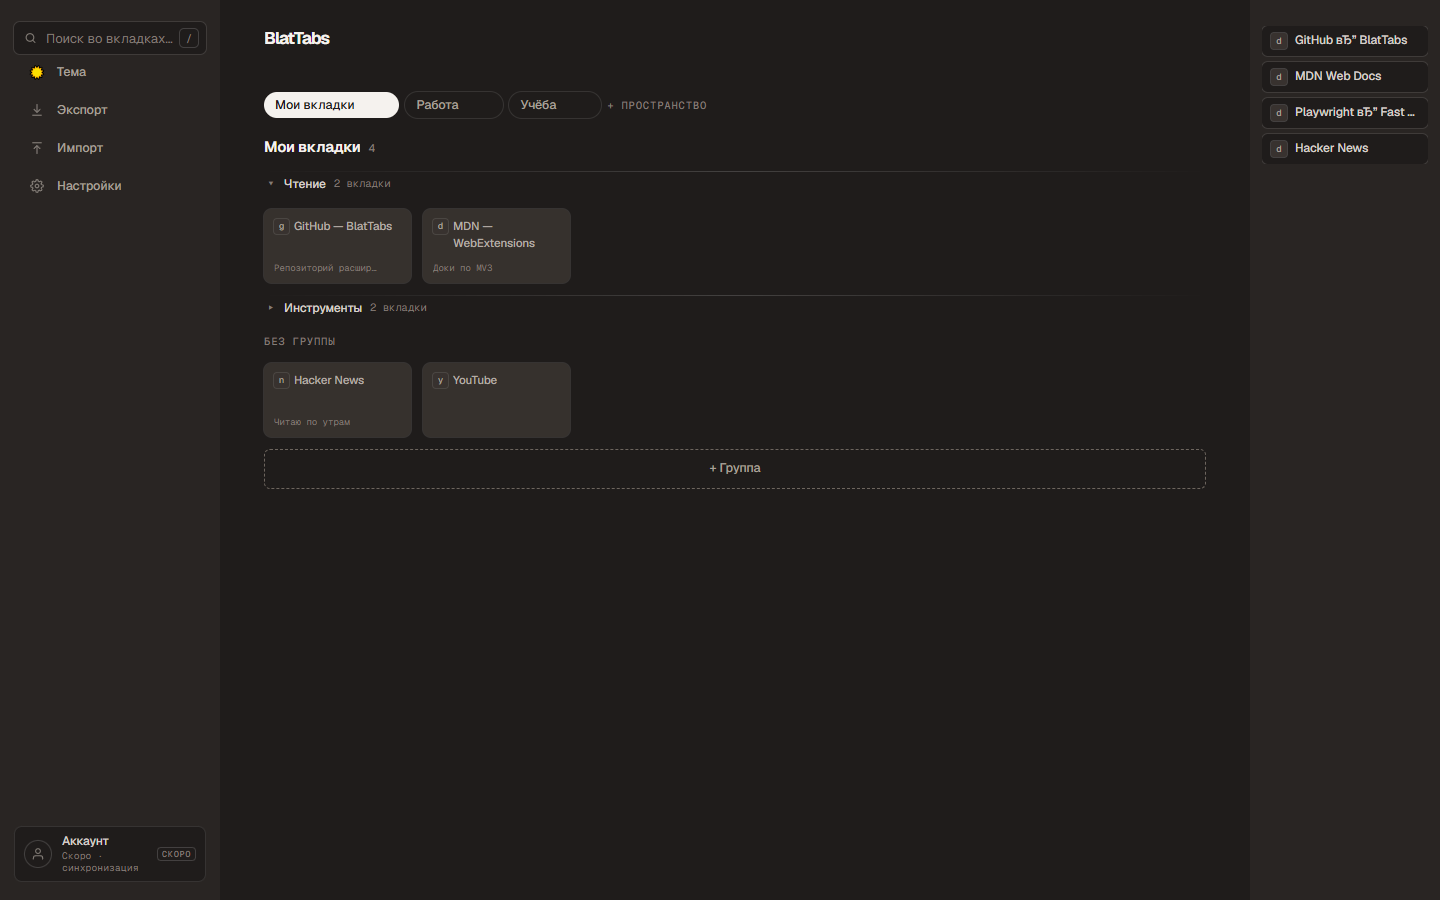
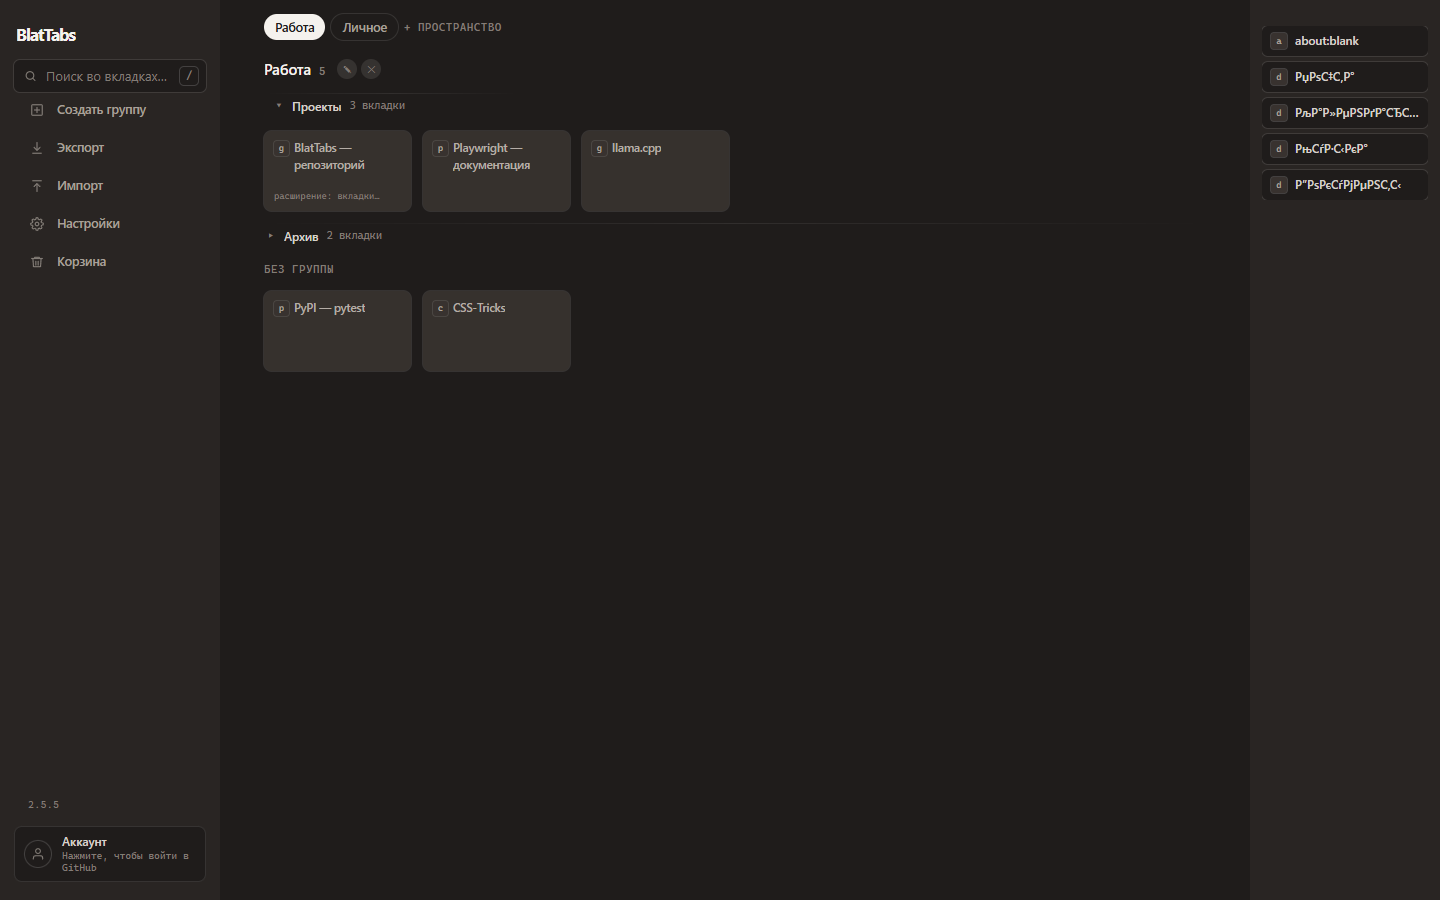
docs: README обновлён (таблица хоткеев — 10 настраиваемых действий с дефолтами, hero-скриншот перегенерирован под v2.5.5), ROADMAP + QWEN — ad-hoc запись

diff --git a/ROADMAP.md b/ROADMAP.md
@@ -292,3 +292,4 @@ toggle'ит; reorder шапка→шапка + клик по целевой ша
 - [x] **GitHub-verify: реальная причина ошибки + авто-retry + «Проверить ещё раз»** — verify-github теперь несёт error (network / api 401 / api 403): verifyGitHubToken() (background.js) вместо null возвращает {error: 'network'} (fetch-провал после 3 попыток) / {error: 'api <status>'} (401/403/429) — ответ verify-github: {success: false, token_present, error} (нет токена — {success: false}); view.js: 401/403 (мёртвый токен не лечится повтором) — рейка и модалка «Токен недействителен — войдите заново» (i18n account_token_invalid, ru/en) БЕЗ retry; любой другой провал (сеть) — «Подключено · проверяем аккаунт…» + авто-retry каждые 30 c таймером СТРАНИЦЫ (scheduleVerifyRetry — SW умирает, страница живёт; стоп при успехе и при кэшированном логине), retry повторяет refreshAccount() + renderGitHubModal(); в модалке #github-modal кнопка «Проверить ещё раз» (#github-retry-btn, i18n github_retry, ru/en) — видна во всех провалившихся состояниях (network/401/403/no-response), скрыта при успехе; клик — немедленный повтор verify. Тесты: новый TestVerifyAuthErrorAndRetry (12: рейка network → «проверяем» / network → retry восстанавливает (2-й verify — успех, логин в кэш) / 401 → «недействителен» без retry (счётчик verify = 1 за 700 ms при хуке 250 ms) / успех — retry снят (счётчик 1) / без токена verify 0 раз, состояние подключения / модалка network → статус «проверяем» + кнопка retry видима / модалка 401 → «недействителен» + retry видима / модалка успех → «GitHub: <login> · …» + retry скрыта / клик по retry — счётчик verify растёт / i18n en 401 → «Token invalid — sign in again» / background: fetch 401 → {success:false, token_present:true, error:'api 401'} / background: fetch-исключение → {success:false, token_present:true, error:'network'}). Итого 911 unit-тестов
 - [x] **Средний клик по карточке — фоновая вкладка** — средний клик (колесо мыши) по сохранённой вкладке открывает сайт новой ФОНОВОЙ вкладкой (chrome.tabs.create, active:false) — фокус остаётся на странице BlatTabs (в окне плагина). view.js (appendCard): mousedown (button 1) — preventDefault (гасит autoscroll браузера), auxclick (button 1) — openSavedUrlsInBackground([tab.url]) (тот же фоновый путь, что дроп карточки на правую рейку); hover-кнопки (чекбокс/✕/✎) не открывают (pdInteractiveTarget). Левый клик (open-one, active:true), dblclick-rename и drag не тронуты; i18n без изменений (новых строк нет). Тесты: новый TestMiddleClickBackgroundOpen (6: фоновое открытие {url, active:false} / ровно одно открытие + ЛКМ-путь open-one не шёл / middle-mousedown — defaultPrevented (autoscroll-подавление) / средний клик по имени — фоновое открытие без rename / hover-кнопки (чекбокс/✕/✎) — без открытия / регрессия: левый клик — open-one + active:true). Итого 917 unit-тестов
 - [x] **«Бесконечный "Проверяем аккаунт"» → честная ошибка** — устойчивый провал verify-github (сеть, токен есть, кэша логина нет) раньше зацикливал рейку/модалку в «Подключено · проверяем аккаунт…» (30-с retry — навсегда, видимой ошибки нет): теперь стабильно «GitHub недоступен — проверьте сеть» (account_verify_error, ключи ru/en уже были) в рейке (подпись «Аккаунт») И модалке; тихий 30-с авто-retry (таймер view.js, стоп при успехе, self-heal при восстановлении сети) теперь вызывает renderGitHubModal(false) — открытая модалка делает повторный verify БЕЗ вспышки «проверяем» (вспышка только для пользовательских проверок: openGitHubModal, клик #github-retry-btn, setTimeout(renderGitHubModal, 3000) после sync-now/clear-cloud, onChanged github-token); 401/403 (account_token_invalid, без retry) и success-ветки — без изменений; background.js не трогали. Тесты: ретаргет 4 steady-state ассертов «Подключено · проверяем аккаунт…» → account_verify_error (TestDeviceFlowPolling.test_verify_fail_no_cache_shows_error — + подпись «Аккаунт»; TestVerifyAuthErrorAndRetry: test_rail_network_error_shows_error, test_modal_network_error_status_and_retry_btn, test_modal_retry_btn_click_reverifies; in-flight «проверяем» до ответа verify в TestGithubModalSync.test_token_status_immediate — сохранён), новый TestVerifyErrorSteadyState (8, standalone без наследования: pytest повторно исполняет наследованные тесты — счёт бы вырос на 12: рейка error-стабейт + запланированный retry / 401-регрессия (retry не идёт) / модалка error-статус + retry-btn / тихий retry без вспышки (delayed-verify-мок, 400 ms окно in-flight) / восстановление: логин + кэш blattam-github-login + pending-retry снят / клик #github-retry-btn: вспышка «проверяем» + счётчик verify растёт / en-локаль). Итого 925 unit-тестов
+- [x] **README обновлён: хоткеи + hero-скриншот (ad-hoc, docs)** — таблица «Горячие клавиши» доведена до текущего состояния (было 6 строк — до хоткей-панели v2.5.0): фиксированные `Ctrl+Shift+S`/`Ctrl+T`/`Esc` (не привязывается) + 10 настраиваемых действий (Настройки → «Горячие клавиши», метки 1:1 с i18n, дефолты = HOTKEY_DEFAULTS: ↓/→, ↑/←, Enter, Delete/Backspace, /, Ctrl+A; «Новое пространство»/«Новая группа»/«Переключить тему»/«Открыть настройки» — не назначены). Hero `docs/screenshot.png` перегенерирован (Playwright + загрузка unpacked-расширения: 2 пространства, раскрытая группа «Проекты» + свёрнутая «Архив» + loose-вкладки, правая рейка из живых вкладок браузера, тёмная тема, 1440×900; старая картинка была от v2.0.0 — alt и комментарий в README обновлены). Версия 2.5.5 и 983 автотеста в README подтверждены фактом (manifest.json + `pytest --collect-only`). Код не тронут — 983 без изменений

diff --git a/QWEN.md b/QWEN.md
@@ -173,3 +173,4 @@ store/                 — материалы магазина: DESCRIPTION.md +
 - **GitHub-verify: steady-state ошибка + тихий retry** — устойчивый провал verify (сеть, токен есть, кэша логина нет) — рейка и модалка показывают «GitHub недоступен — проверьте сеть» (account_verify_error; рейка — подпись «Аккаунт») вместо вечного «Подключено · проверяем аккаунт…»; 30-с авто-retry (таймер view.js, стоп при успехе) теперь ТИХИЙ — renderGitHubModal(false): открытая модалка повторно делает verify БЕЗ вспышки «проверяем» (вспышка только для пользовательских проверок: открытие модалки, клик «Проверить ещё раз», перерисовка через 3 с после sync-now/clear-cloud, onChanged github-token); при восстановлении сети фоновый retry успешен → кэш логина пишется → рейка «GitHub: <login>»; 401/403 (без retry) и success — без изменений; новых i18n-ключей нет (account_verify_error был)
 - **С4.18: Синк-пейлоад — явный whitelist + валидация типов** — getSyncPayload больше не списывает всё chrome.storage.sync в payload.settings (get(null)): явные поля tabs (local), spaces, groups, lastSpaceId (sync), updatedAt (local, метка С2.9); lastSpaceId — новое явное поле (было — только через settings-дампы); applySyncPayload пишет только валидные по типам поля (Array.isArray — tabs/spaces/groups, string — lastSpaceId, number — updatedAt) — чужие ключи из облака в sync не зеркалируются; gist в старом формате (settings-дампы) по-прежнему применяется — из дампа берутся те же три whitelisted sync-ключа; FAQ faq5_a (ru+en + статический filler view.html) — честный скоуп: синк — вкладки/пространства/группы через GitHub-аккаунт, тема/язык/настройки — per-device (темы/пресеты/хоткеи НЕ синкаются — решение BlattamBot)
 - **С4.19: Лицензия + политика конфиденциальности** — LICENSE (MIT, © 2026 Blattam) + PRIVACY.md (RU) в корне репо (пишет BlattamBot, ревьюит BlattamRoach): документация скоупа данных. Локально (chrome.storage.local, никуда не отправляется): blattam-tabs, blattam-trash, blattam-browser-tabs (зеркало, без инкогнито), blattam-theme/lang/quick-search, фоны (3 ключа), blattam-tab-color/custom-theme/presets/active-preset, blattam-hotkeys, blattam-data-updated-at, github-token + blattam-github-login + blattam-auth-scope + blattam-gist-id (токен scope gist — только в запросах к api.github.com, в синк-пейлоад не входит). chrome.storage.sync: blattam-spaces/groups/last-space — синхронизирует сам браузер через аккаунт Google. GitHub — только после явного «Войти в GitHub»: приватный Gist (sync.json, описание «BlatTabs Sync Data», создаётся при первом синке) с whitelist-пейлоадом С4.18 (tabs/spaces/groups/lastSpaceId/updatedAt); push — после изменений (debounce на chrome.alarms, в unpacked ~1 мин) и по «Синхронизировать», pull — по «Синхронизировать», «Очистить облачные данные» — Gist пустой, «Отключить» — токен удаляется (Gist остаётся в аккаунте); сетевые запросы — только api.github.com (Gist/verify) + github.com (OAuth/Device-страницы входа) + страница Releases по кнопке; аналитики, телеметрии и внешних серверов нет. Код не тронут — 983 автотеста без изменений
+- **README: хоткеи + hero-скриншот** — таблица «Горячие клавиши» в README: фиксированные `Ctrl+Shift+S` (сохранить), `Ctrl+T` (открыть BlatTabs), `Esc` (сброс, не привязывается) + 10 настраиваемых действий (Настройки → «Горячие клавиши», дефолты HOTKEY_DEFAULTS; «Новое пространство»/«Новая группа»/«Переключить тему»/«Открыть настройки» — не назначены). `docs/screenshot.png` перегенерирован под v2.5.5 (Playwright + unpacked: 2 пространства, раскрытая/свёрнутая группы, loose-вкладки, правая рейка живых вкладок, тёмная тема, 1440×900)

diff --git a/README.md b/README.md
@@ -7,9 +7,9 @@
 - **Данные:** хранятся локально на устройстве (`chrome.storage.local`)
 - **Проверено:** 983 автотестом (Playwright + pytest)
 
-<!-- Скриншот v2.0.0: реальное UI (тёмная тема), сгенерировано через Playwright с загрузкой unpacked-расширения. -->
+<!-- Скриншот v2.5.5: реальное UI (тёмная тема), сгенерировано через Playwright с загрузкой unpacked-расширения. -->
 <p align="center">
-  <img src="docs/screenshot.png" alt="BlatTabs — интерфейс 2.0.0: три колонки (меню, карточки сохранённых вкладок, живые открытые вкладки)" width="900">
+  <img src="docs/screenshot.png" alt="BlatTabs 2.5.5 — страница новой вкладки: левая рейка (поиск, действия, аккаунт), пространства и карточки сохранённых вкладок, правая рейка — живые вкладки браузера" width="900">
 </p>
 
 ## Установка
@@ -28,10 +28,22 @@
 | --- | --- |
 | Сохранить текущую вкладку | `Ctrl+Shift+S` |
 | Открыть BlatTabs (новая вкладка) | `Ctrl+T` |
-| Перемещаться между карточками | `←` `↑` `→` `↓` |
-| Открыть выбранную вкладку | `Enter` |
-| Удалить выбранную карточку | `Delete` / `Backspace` |
-| Сбросить поиск / выбор | `Esc` |
+| Сбросить поиск / выбор (не привязывается) | `Esc` |
+
+Остальные действия настраиваются в Настройках → «Горячие клавиши» (у каждого — свой список комбинаций, «не назначено» — выключено):
+
+| Действие | По умолчанию |
+| --- | --- |
+| Далее (вниз) | `↓` / `→` |
+| Назад (вверх) | `↑` / `←` |
+| Открыть вкладку | `Enter` |
+| Удалить вкладку | `Delete` / `Backspace` |
+| Фокус на поиске | `/` |
+| Выбрать все вкладки | `Ctrl+A` |
+| Новое пространство | не назначено |
+| Новая группа | не назначено |
+| Переключить тему | не назначено |
+| Открыть настройки | не назначено |
 
 ## Данные
 
